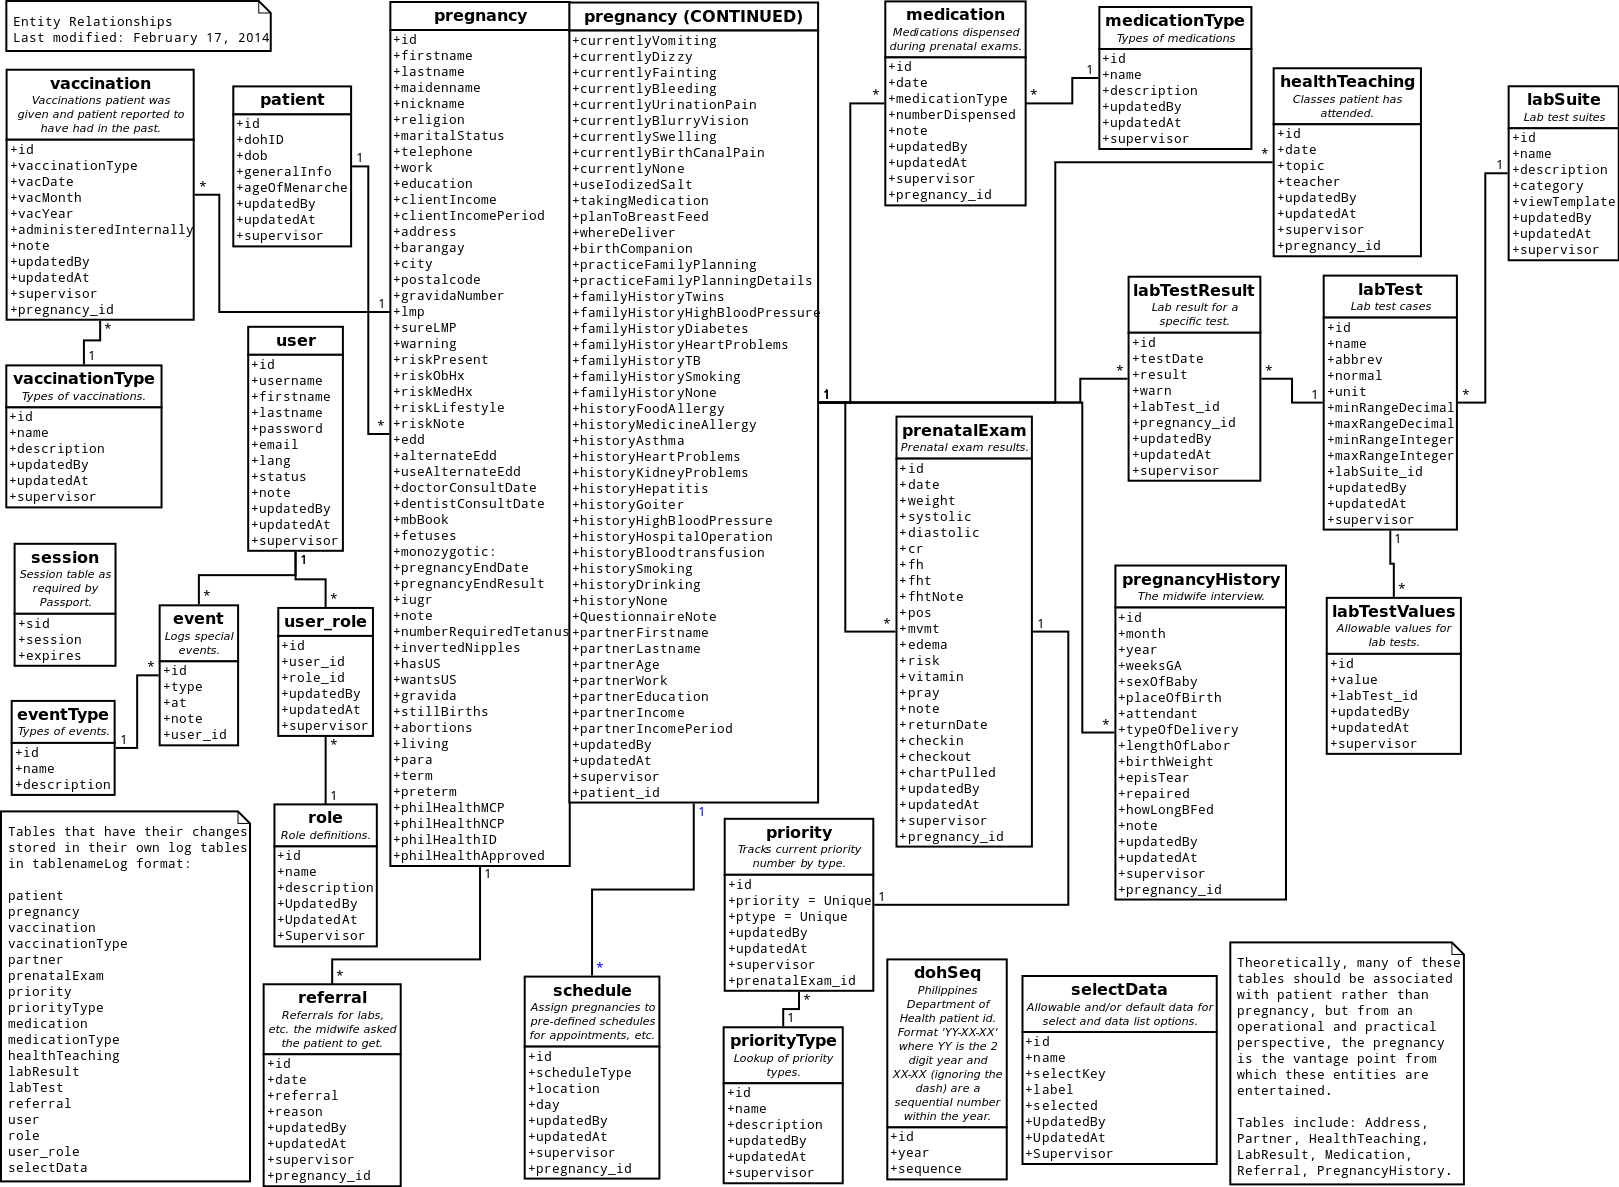
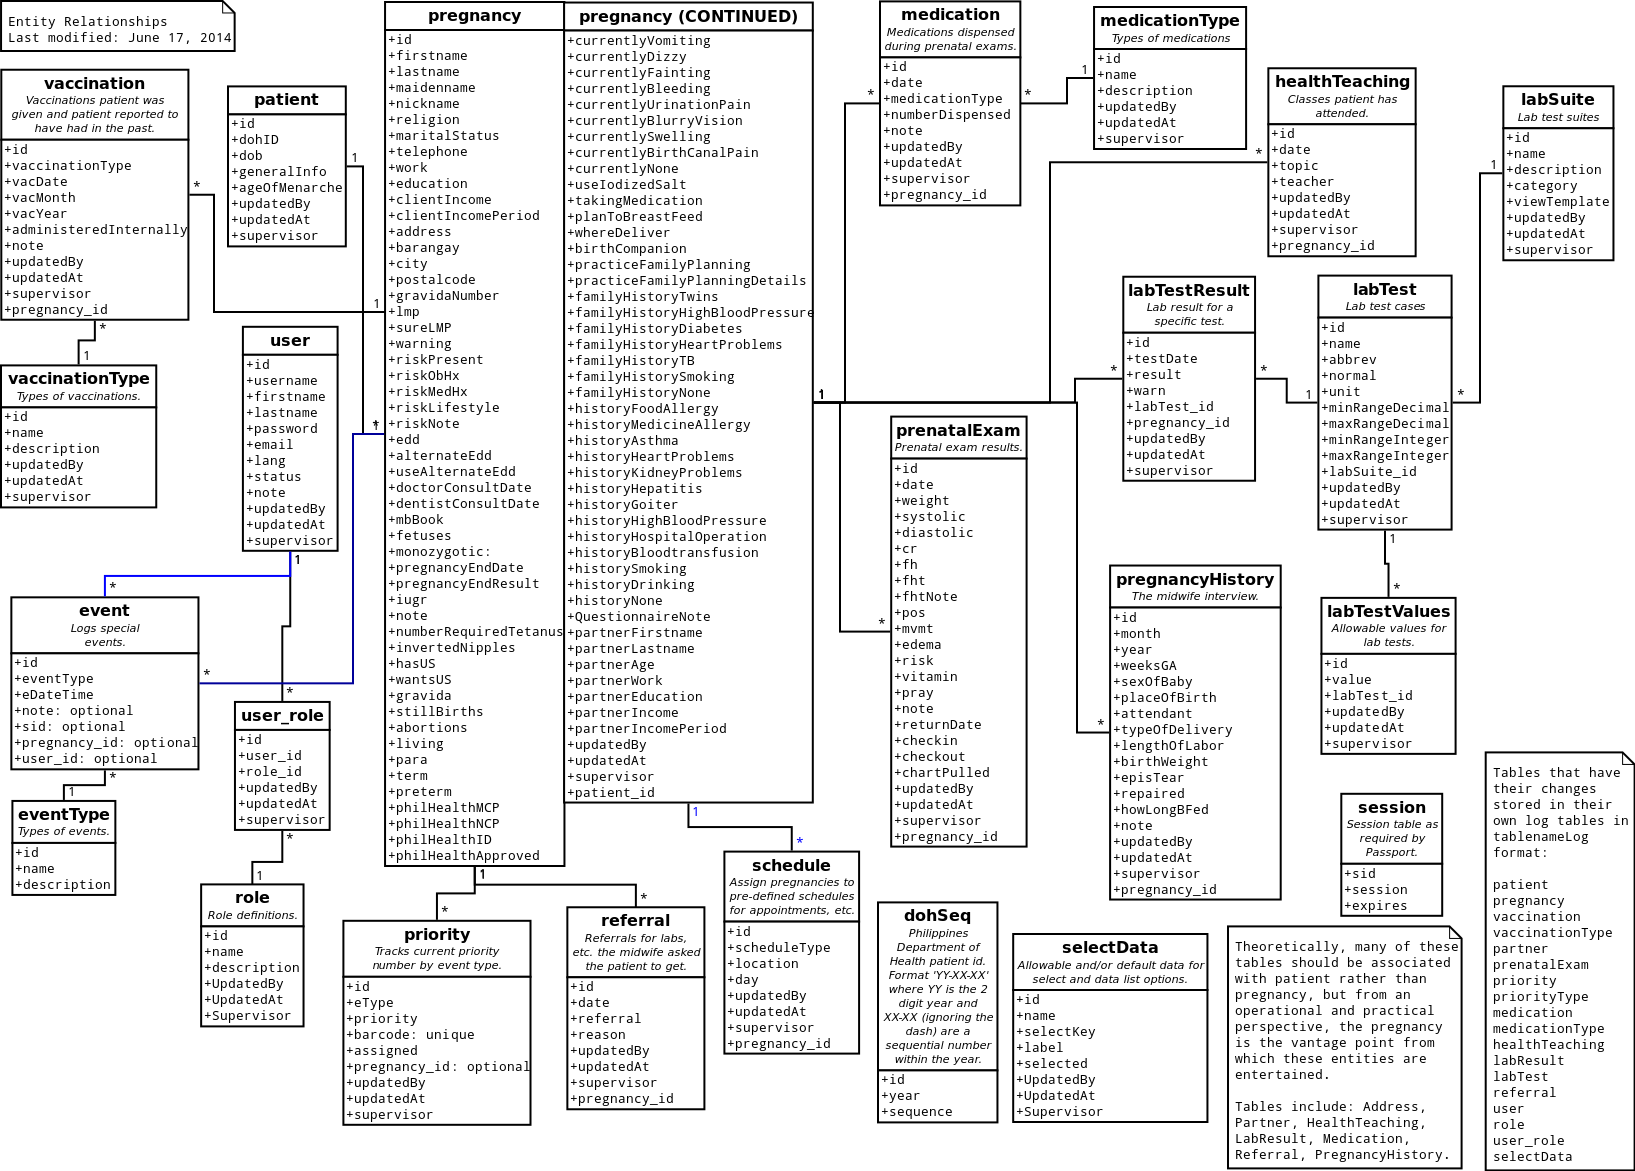
Updated documentation

Changed region(s): [[0.0, 0.0, 1.0, 1.0]]

diff --git a/README.md b/README.md
@@ -2,9 +2,12 @@
 
 Custom software for a charity maternity clinic in the Philippines. This software is specifically designed for one particular clinic, though anyone can use parts or all of it freely as you see fit. See license for details. *Use at your own risk - there is no warranty.*
 
+Currently the software concentrates upon the prenatal check ups during the pregnancy. Other phases of pregnancy handling are not yet implemented.
+
 ## Features
 
 - New patient setup
+  - Any number of patients allowed.
 - Prenatal history
 - Prenatal questionnaire
 - Prenatal examinations
@@ -13,10 +16,25 @@ Custom software for a charity maternity clinic in the Philippines. This software
   - Prenatal measurements/notes
   - Referrals
   - Medicines administered
+  - Health Teachings (to be completed)
 - Search
   - exact and wildcard
-- Reports (to be completed)
-- Priority number scheduling (to be completed)
+  - search by priority number (scanning the priority badge/tag)
+- Reports
+  - 1 so far, more to come
+  - Reports produce PDFs for storage, printing, etc.
+  - Report input includes to and from dates, type of report, etc.
+- Priority number scheduling
+  - Barcode generation system to allow scanning priority badges/tags for
+    faster processing
+    - Generator script creates PDF of barcodes
+    - Barcodes can then be permanently attached to priority badges/tags that the patients
+      use when they arrive. This is done once to setup the priority
+      badges/tags.
+    - The queuing system uses priority badges/tags and scanners can be used to
+      quickly access the patient's records as they proceed through the exam
+      processes. (Note: staff should always confirm name of patient after
+      scanning priority badge/tag.)
 - User management (staff, etc.)
   - Roles
      - Supervisor
@@ -25,7 +43,9 @@ Custom software for a charity maternity clinic in the Philippines. This software
      - Guard
      - Administrator
   - Permissions and ACL based upon roles
+  - Any number of users/staff allowed.
 - Web browser and mobile browser compatible
+  - Native Android client in development (separate)
 - Full logging of all changes to the database
   - All historical changes reviewable by supervisor role or admin role as
     appropriate
@@ -35,18 +55,18 @@ Custom software for a charity maternity clinic in the Philippines. This software
 
 ## Status
 
-Alpha - development is ongoing.
+Alpha - development is ongoing and nearing on-site pilot.
 
 ## Technology
 
-- Nodejs - version v0.10.28 (or latest)
+- Nodejs - version v0.10.29 (or latest)
 - MySQL
 
 Web based and compatible with tablet browsers.
 
 ## Contributions
 
-Contributions, comments, suggestions and pull requests are welcome.
+Contributions, comments, suggestions, issues and pull requests are welcome.
 
 ## License
 
